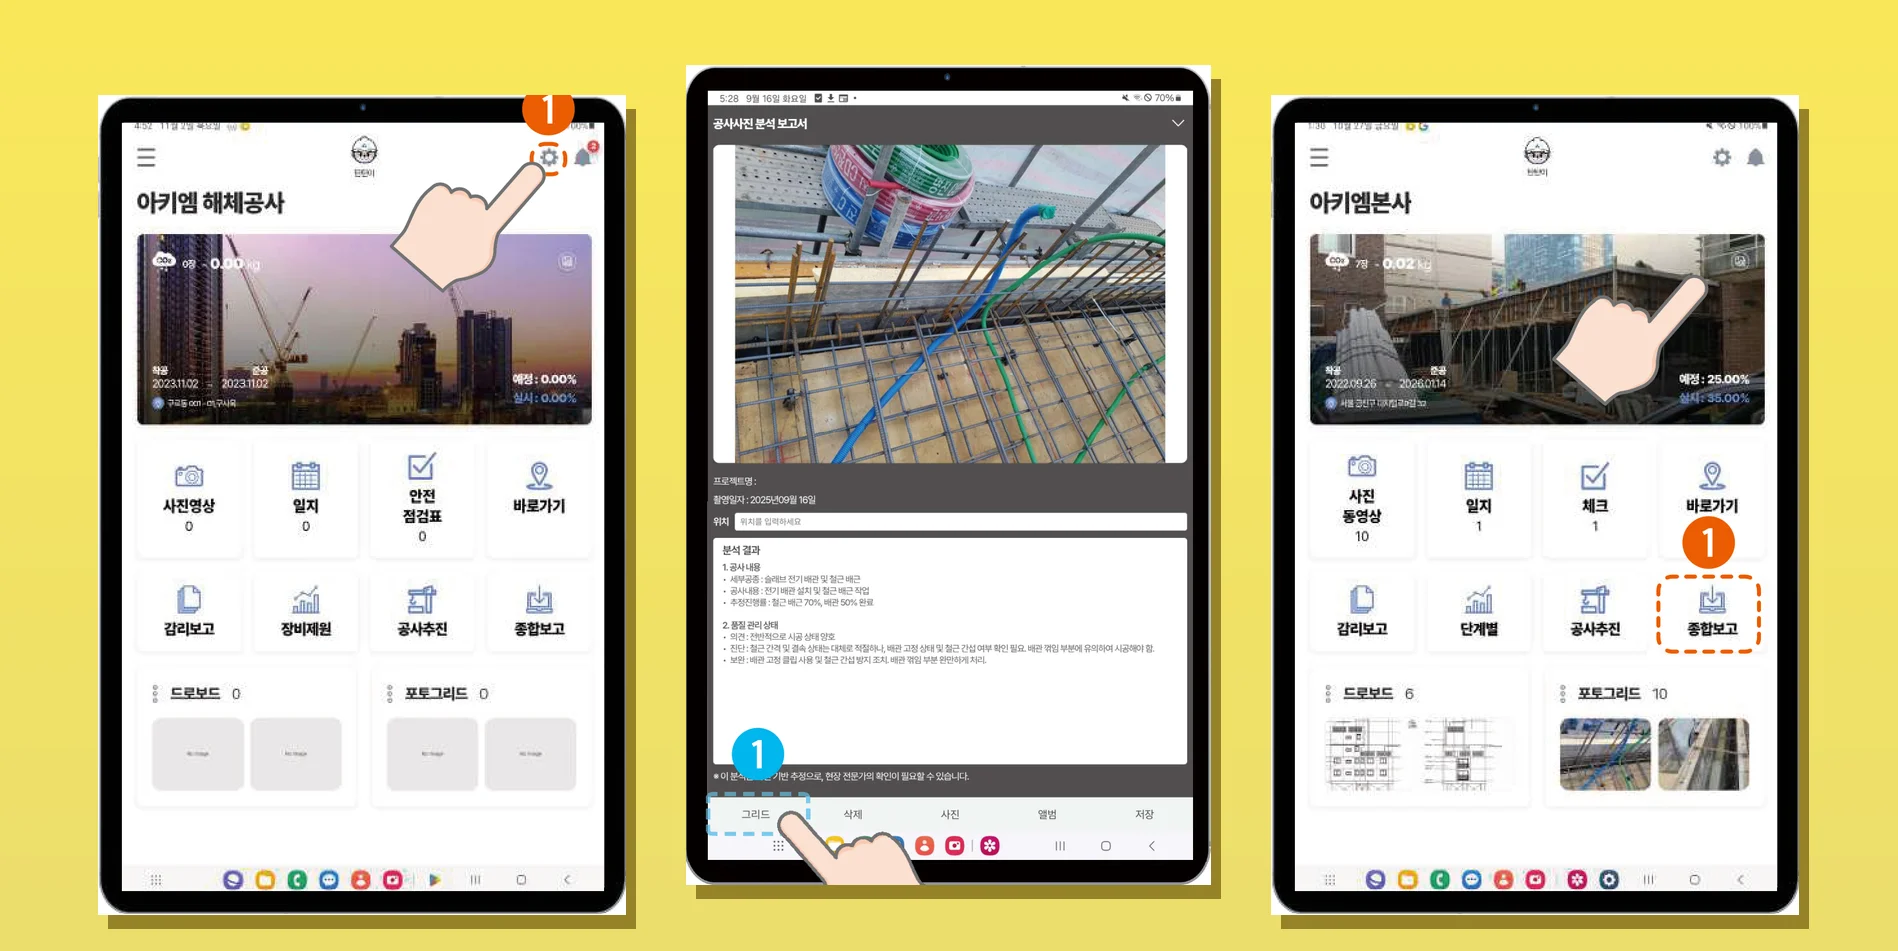
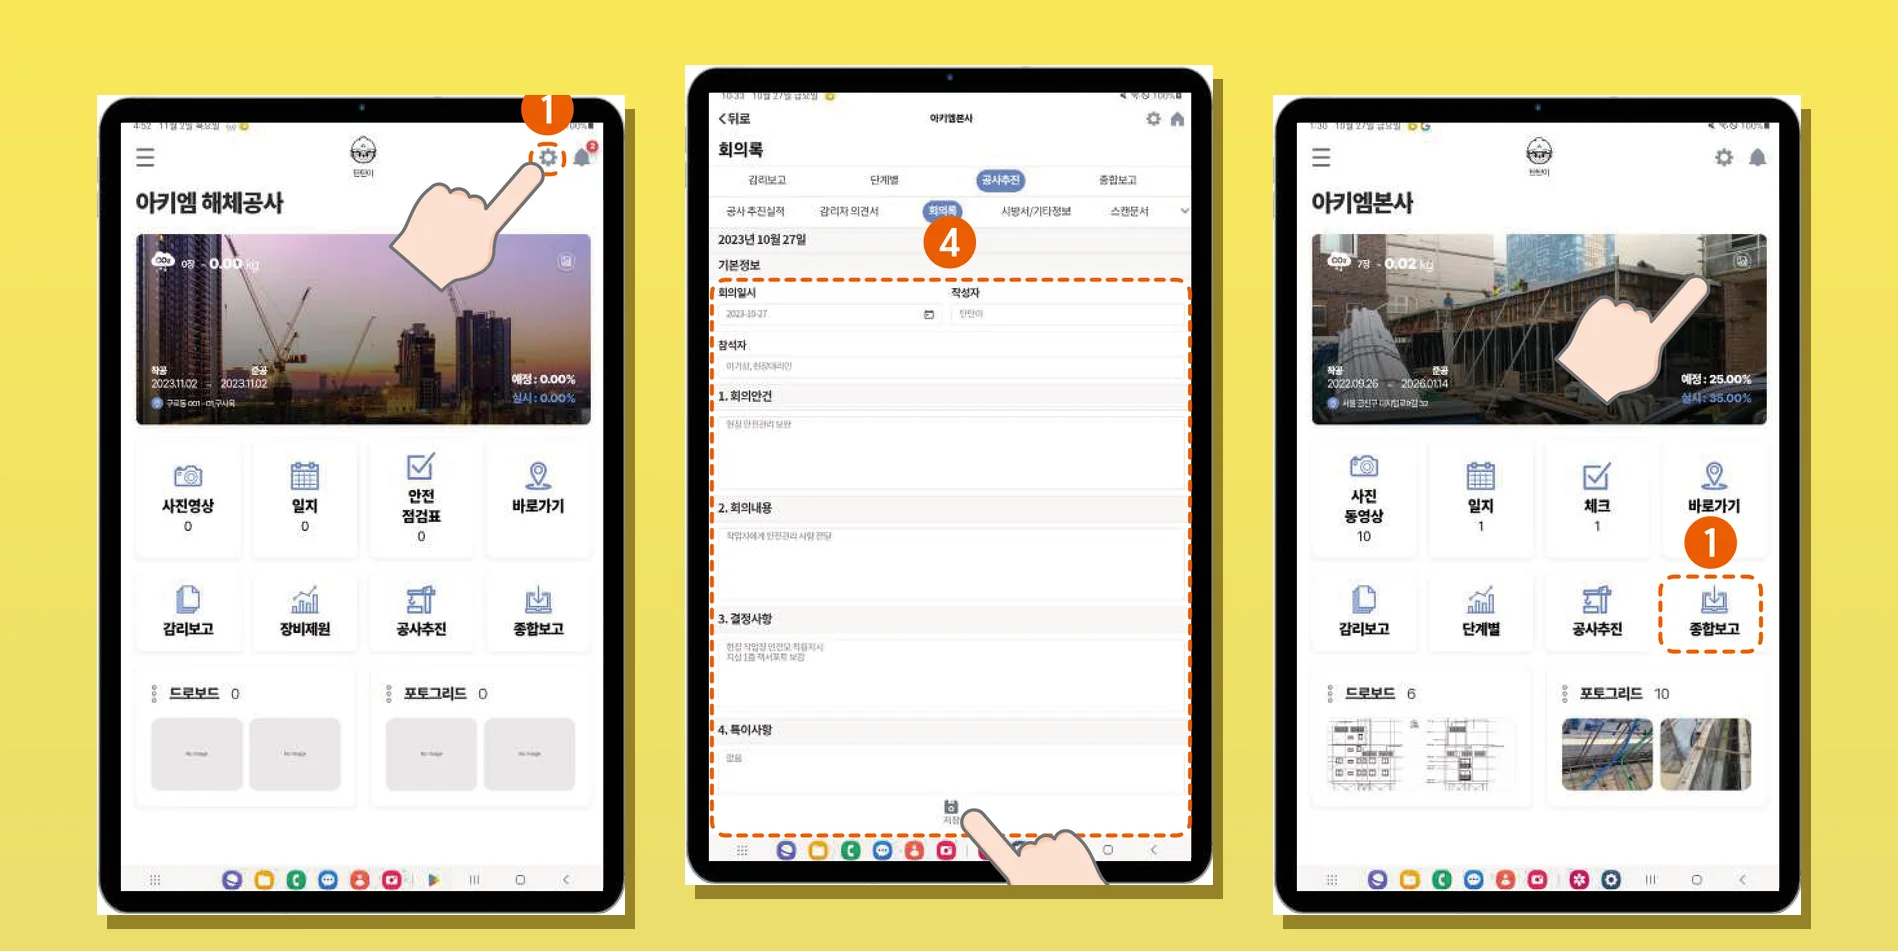
ARKIM: correct roles (AIReport, drop Excel upload), real service URL, non-AI thumbnail

diff --git a/index.html b/index.html
@@ -163,7 +163,7 @@
 
   <section id="about">
     <div class="label">ABOUT</div>
-    <p>건축 감리 회사 개발팀에서 5년 6개월간 현장 감리용 웹 애플리케이션을 개발·운영했습니다. 보고서 자동 생성, 현장 점검, 결제 연동처럼 실제 현장에서 매일 쓰는 기능을 맡았습니다. 이후 부트캠프에서 Spring Boot와 React를 체계적으로 다시 다졌고, 개인 프로젝트 '더클러스터'에서는 챗봇과 관리자 대시보드를 기획부터 배포·운영까지 혼자 만들었습니다. 백엔드부터 화면, 배포까지 전 과정을 다룰 수 있는 개발자입니다.</p>
+    <p>건축 감리 회사 개발팀에서 5년 6개월간 현장 감리용 웹 애플리케이션을 개발·운영했습니다. 감리 보고서 출력, 해체감리, 현장 점검, 결제 연동처럼 실제 현장에서 매일 쓰는 기능을 맡았습니다. 이후 부트캠프에서 Spring Boot와 React를 체계적으로 다시 다졌고, 개인 프로젝트 '더클러스터'에서는 챗봇과 관리자 대시보드를 기획부터 배포·운영까지 혼자 만들었습니다. 백엔드부터 화면, 배포까지 전 과정을 다룰 수 있는 개발자입니다.</p>
   </section>
 
   <section id="projects">
@@ -173,7 +173,7 @@
         <div class="proj-thumb"><img src="/images/arkim-thumb.webp" alt="아키엠 앱 화면" width="1898" height="951" loading="lazy"></div>
         <div class="proj-body">
           <h3>아키엠 (ARKIM)</h3>
-          <p>건축 감리 현장용 웹·앱 서비스. 회사 개발팀에서 해체감리 기능, 보고서 PDF 자동 생성, 결제 연동 등을 개발했습니다.</p>
+          <p>건축 감리 현장용 웹·앱 서비스. 회사 개발팀에서 해체감리 기능, AIReport 기반 감리 보고서, 결제 연동 등을 개발했습니다.</p>
           <div class="tags"><span class="tag">Spring MVC</span><span class="tag">MyBatis</span><span class="tag">MySQL</span></div>
         </div>
       </div>
@@ -220,8 +220,7 @@
         <span class="chip">JSP / Servlet</span>
         <span class="chip">Thymeleaf</span>
         <span class="chip">Jinja2</span>
-        <span class="chip">JasperReports</span>
-        <span class="chip">Apache POI</span>
+        <span class="chip">AIReport</span>
       </div>
     </div>
 
@@ -287,8 +286,8 @@
     <div class="exp-item">
       <div class="exp-period mono">2019.07 – 2025.01</div>
       <div class="exp-title">씨엠엑스 · 선임</div>
-      <div class="exp-desc">건축 감리용 웹 애플리케이션 개발팀에서 기능 개발과 유지보수를 맡았습니다. 감리일지·안전점검 보고서 PDF 자동 생성, 현장 점검·계측 기능, 아파트 동·호 도면 표시, 엑셀 일괄 업로드, KCP·페이코 결제 연동을 개발했습니다.</div>
-      <div class="tags"><span class="tag">Spring MVC</span><span class="tag">MyBatis</span><span class="tag">MySQL</span><span class="tag">JSP</span><span class="tag">jQuery</span><span class="tag">JasperReports</span><span class="tag">Apache POI</span></div>
+      <div class="exp-desc">건축 감리용 웹 애플리케이션 개발팀에서 기능 개발과 유지보수를 맡았습니다. 해체감리 기능, AIReport를 이용한 감리 보고서 양식, 현장 점검·계측 기능, 아파트 동·호 도면 표시, KCP·페이코 결제 연동을 개발했습니다.</div>
+      <div class="tags"><span class="tag">Spring MVC</span><span class="tag">MyBatis</span><span class="tag">MySQL</span><span class="tag">JSP</span><span class="tag">jQuery</span><span class="tag">AIReport</span></div>
     </div>
   </section>
 </div>
@@ -327,15 +326,14 @@
       title: '아키엠 (ARKIM)',
       meta: '씨엠엑스 · 회사 업무 · 개발팀',
       desc: '건축 감리원이 현장에서 사진 촬영, 점검, 감리일지 작성부터 각종 감리 보고서 출력까지 할 수 있는 감리 업무 서비스입니다. 모바일 앱과 PC 웹으로 제공되며, 개발팀의 일원으로 기능 개발과 유지보수를 맡았습니다.',
-      link: 'https://www.arkim.kr',
+      link: 'https://arkim.cmx.co.kr/arkim2/login_archimup.cmx',
       linkLabel: '서비스 홈페이지',
       note: '회사 업무로 진행한 프로젝트라 소스 코드는 공개할 수 없습니다. 화면은 공개된 사용자 매뉴얼에서 가져왔습니다.',
-      tags: ['Java','Spring MVC','Spring Security','MyBatis','MySQL','JSP','jQuery','JasperReports','Apache POI','Tomcat','SVN'],
+      tags: ['Java','Spring MVC','Spring Security','MyBatis','MySQL','JSP','jQuery','AIReport','Tomcat','SVN'],
       roles: [
         '해체감리 기능 개발 (해체공사 안전점검표, 스마트 점검, 해체감리 보고서)',
-        '감리일지·안전점검 등 감리 보고서 PDF 자동 생성 (JasperReports)',
+        'AIReport(상용 리포팅 도구)로 감리 보고서 양식 개발·유지보수',
         '현장 점검·계측 기능, 아파트 동·호 도면 표시 기능 개발',
-        '체크리스트 엑셀 일괄 업로드 (Apache POI)',
         'KCP·페이코·페이앱 결제 연동'
       ]
     },
